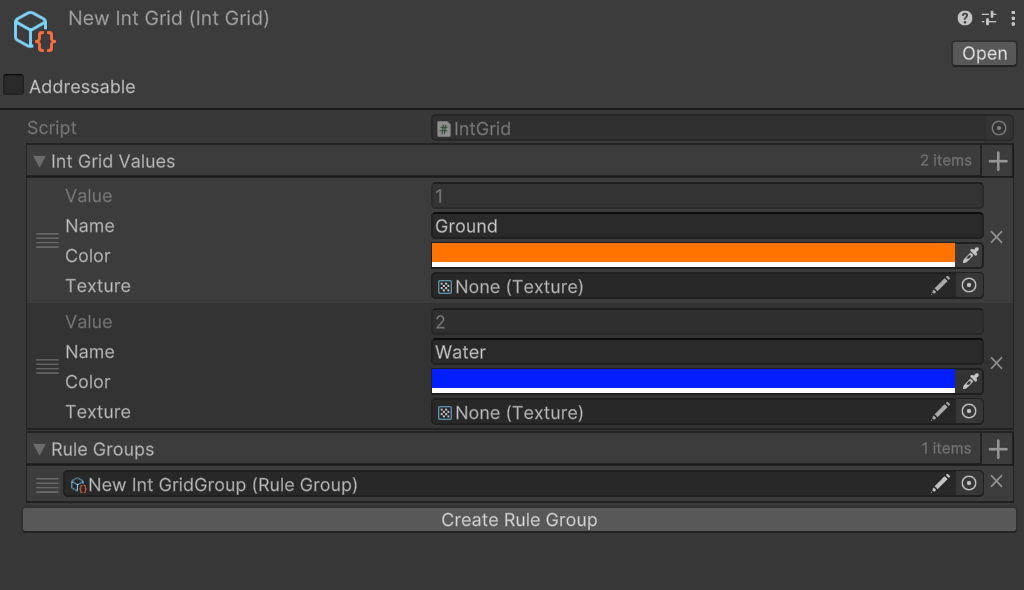
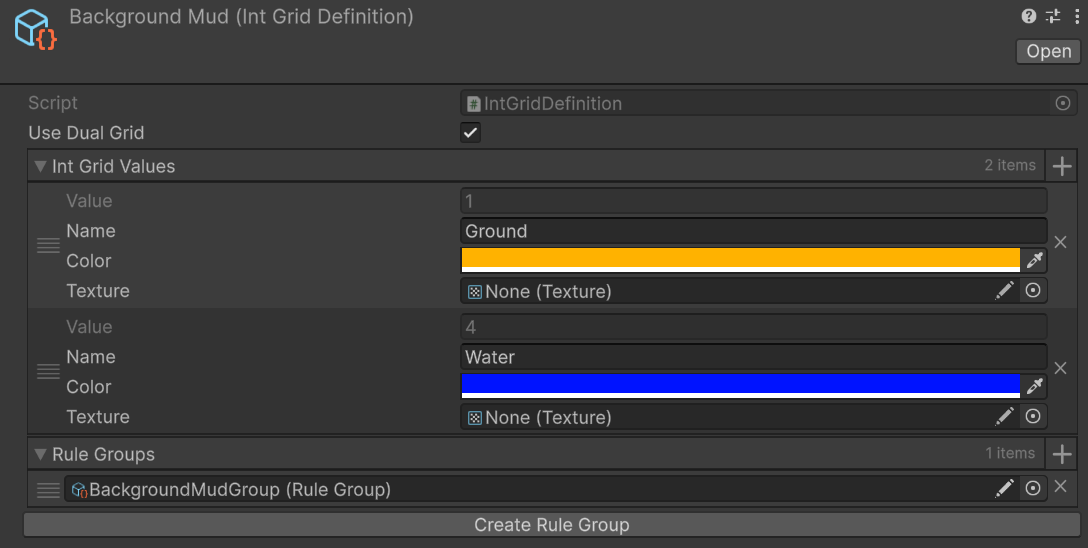
Update CHANGELOG.md and README.md

diff --git a/KrasCore.Mosaic/Systems/TilemapEntityInitializationSystem.cs b/KrasCore.Mosaic/Systems/TilemapEntityInitializationSystem.cs
@@ -14,12 +14,6 @@ namespace KrasCore.Mosaic
         private NativeHashMap<Hash128, TilemapDataSingleton.IntGridLayer> _intGridLayers;
         
         [BurstCompile]
-        public void OnCreate(ref SystemState state)
-        {
-            state.RequireForUpdate<TilemapDataSingleton>();
-        }
-        
-        [BurstCompile]
         public void OnUpdate(ref SystemState state)
         {
             state.EntityManager.CompleteDependencyBeforeRO<TilemapDataSingleton>();

diff --git a/README.md b/README.md
@@ -3,26 +3,34 @@ Mosaic is a Next Gen Runtime Unity Tilemap solution, heavily inspired by LDtk, b
 
 ![Mosaic](Documentation~/Images/Mosaic.png)
 
-| Feature       | Unity.Tilemap                                                                 | Mosaic                                                                                                                                                      |
-|---------------|-------------------------------------------------------------------------------|-------------------------------------------------------------------------------------------------------------------------------------------------------------|
-| Rule engine   | RuleTile: very shallow support, requires custom code to achieve basic results | IntGrid: inspired by LDtk, one of the most powerful and feature rich rule engines                                                                           |
-| GUI           | Poor GUI experience with RuleTile custom editor                               | Custom GUI made with [Odin Inspector](https://assetstore.unity.com/packages/tools/utilities/odin-inspector-and-serializer-89041?srsltid=AfmBOop97OyTTYiuIIGN0oQkSMLd0P3xSmw8NEuDFQQLFEFcz3blWS6p), with a separate EditorWindow to make GUI even more clear and concise. Custom rule pattern matrix controls and rendering |
-| Performance   | Main thread only, really inefficient when using complex rule patterns         | 99% 'bursted' and 'jobified'. Main thread only submits meshes to render                                                                                     | 
-| Allocations   | Huge GC spikes when using RuleTile                                            | 0 GC and Native allocations                                                                                                                               |
-| Random        | No option to set a seed                                                       | `SetGlobalSeed()` and 100% deterministic                                                                                                                    |
-| World editing | Tilemap saves changes in the editor                                           | IntGridAuthoring does not save editor data for now. However, adding such feature is trivial as all the data is stored in a `int[]`                       |
-| Grid types    | Rectangular, hexagonal and isometric                                          | Only rectangular                                                                                                                                            |
-| Object rule result  | Instantiates GameObjects, which is really expensive. A lot of GC allocations | Instantiates Entities, which is really cheap. No GC allocations |                  
-| Rendering Pipeline | Internal `SpriteRenderer` based rendering path                                | `Entities.Graphics` based rendering with every `IntGridAuthoring` being a separate entity with a mesh. Utilizing `RuntimeMaterial` to create materials at runtime with different main textures as needed |
-| 2D Rendering     | Supports both 3D and 2D rendering with SortingLayers   | Because `SpriteRenderer` rendering path is internal, Mosaic only works with 3D based rendering |
+| Feature            | Unity.Tilemap                                                                 | Mosaic                                                                                                                                                                                                                                                                                                                     |
+|--------------------|-------------------------------------------------------------------------------|----------------------------------------------------------------------------------------------------------------------------------------------------------------------------------------------------------------------------------------------------------------------------------------------------------------------------|
+| Rule engine        | RuleTile: very shallow support, requires custom code to achieve basic results | IntGrid: inspired by LDtk, one of the most powerful and feature rich rule engines                                                                                                                                                                                                                                          |
+| GUI                | Poor GUI experience with RuleTile custom editor                               | Custom GUI made with [Odin Inspector](https://assetstore.unity.com/packages/tools/utilities/odin-inspector-and-serializer-89041?srsltid=AfmBOop97OyTTYiuIIGN0oQkSMLd0P3xSmw8NEuDFQQLFEFcz3blWS6p), with a separate EditorWindow to make GUI even more clear and concise. Custom rule pattern matrix controls and rendering |
+| Performance        | Main thread only, really inefficient when using complex rule patterns         | 99% 'bursted' and 'jobified'. Main thread only submits meshes to render                                                                                                                                                                                                                                                    | 
+| Allocations        | Huge GC spikes when using RuleTile                                            | 0 GC allocations                                                                                                                                                                                                                                                                                                           |
+| Random             | No option to set a seed                                                       | `SetGlobalSeed()` and 100% deterministic                                                                                                                                                                                                                                                                                   |
+| World editing      | Tilemap saves changes in the editor                                           | `IntGridAuthoring` does not save editor data for now. However, adding such feature is trivial as all the data is stored as `IntGridValue`s, which is just a wrapper for `short`                                                                                                                                            |
+| Grid types         | Rectangular, hexagonal and isometric                                          | Only rectangular                                                                                                                                                                                                                                                                                                           |
+| Object rule result | Instantiates GameObjects, which is really expensive. A lot of GC allocations  | Instantiates Entities, which is really cheap. No GC allocations                                                                                                                                                                                                                                                            |                  
+| Rendering Pipeline | Internal `SpriteRenderer` based rendering path                                | `Entities.Graphics` based rendering with every `IntGridAuthoring` being a separate entity with a mesh. Utilizing `RuntimeMaterial` to create materials at runtime with different main textures as needed                                                                                                                   |                                                                                                                  |                                                                                                                  
+| 2D Rendering       | Supports both 3D and 2D rendering with SortingLayers                          | Because `SpriteRenderer` rendering path is internal, Mosaic only works with 3D based rendering                                                                                                                                                                                                                             |
+
+## Changelog
+[1.3.0] - 2025-07-25 is out! Full changelog can be found [here](CHANGELOG.md)
 
 ## Installation
-Add these packages in this order using git urls in a package manager:
-1. [KrasCore](https://github.com/Fire-Aalt/KrasCore): `https://github.com/Fire-Aalt/KrasCore.git`
-2. KrasCore.Mosaic: `https://github.com/Fire-Aalt/KrasCore-Mosaic.git`
+Add these packages using git urls in a package manager:
+1. KrasCore: https://github.com/Fire-Aalt/KrasCore.git
+2. KrasCore.Mosaic: https://github.com/Fire-Aalt/KrasCore-Mosaic.git
+
+Add these packages for optional support for runtime `IntGrid` debugging: 
+1. BovineLabs.Core: https://gitlab.com/tertle/com.bovinelabs.core.git
+2. BovineLabs.Anchor: https://gitlab.com/tertle/com.bovinelabs.anchor.git
+3. BovineLabs.Quill: https://github.com/tertle/com.bovinelabs.quill
 
 ## Workflow
-### Editor
+### Editor (Single Grid workflow)
 To start, we need 2 things: `IntGrid` and `RuleGroup` ScriptableObjects
 
 Create IntGrid using "Create/Mosaic/IntGrid". This is how we can configure it:
@@ -35,43 +43,52 @@ Open RuleGroup ScriptableObject and add some rules to it like this:
 *Every parameter has a tooltip*
 
 To edit the rule pattern, click on the matrix of the rule matrix preview of the rule. This window will pop up:
-![Rule1](Documentation~/Images/Rule1.png)
+![Rule](Documentation~/Images/Rule.png)
 Here you can modify rule matrix pattern and add or remove results. All the results are weighted, where more weight means more chance to be selected. You can have both sprite and entity to be rendered/spawned.
 
-Next add `GridAuthoring` component to a GameObject in a SubScene and add a `TilemapAuthoring` as a child to Grid. Configure them as needed
+Next add `GridAuthoring` component to a GameObject in a SubScene and add a `TilemapAuthoring` as a child to Grid. Configure them as needed.
+
+### Editor (Dual-Grid workflow)
+
+For Dual-Grid to work, a "Use Dual Grid" checkbox has to be ticked at the top of `IntGridDefinition`. This will change the serialized IntGriMatrix to Dual-Grid one and the authoring inspectors will also be changed for all the RuleGroups assign to that `IntGridDefinition`.
+
+![DualGrid](Documentation~/Images/DualGrid.png)
 
 ### Code
-Reference to an `IntGrid` or it's IntGridHash is required to send commands to `TilemapCommandBufferSystem`. 
+Reference to an `IntGrid`'s `IntGridHash` is required to send commands to `TilemapCommandBufferSystem`. Code is identical for both single grid and Dual-Grid configurations
 
 1. Get a reference to `TilemapCommandBufferSingleton`
 ```csharp
-var singleton = SystemAPI.GetSingleton<TilemapCommandBufferSingleton>();
+var tcb = SystemAPI.GetSingleton<TilemapCommandBufferSingleton>();
 
 // You can also set global seed here or do it later
-singleton.SetGlobalSeed(seed);
+tcb.SetGlobalSeed(seed);
 ```
 
 2. Use `SetIntGridValue()` to update a referenced `IntGrid`
 ```csharp
 // If you set 0 as IntGridValue you "remove" the position (the same as setting null value using SetTile in Unity.Tilemap)
-_tcb.SetIntGridValue(topWalls, new int2(0, 1), topWallsSolidIntGridValue);
+tcb.SetIntGridValue(topWallsHash, new int2(0, 1), topWallsSolidIntGridValue);
 ```
 
 3. Use `Clear()` to clear all IntGridValues of a specific `IntGrid` or use `ClearAll()` to clear all `IntGrid`s values
 ```csharp
-_tcb.Clear(topWalls);
-_tcb.ClearAll();
+tcb.Clear(topWalls);
+tcb.ClearAll();
 ```
 
 *Done!*
 
-## How do rules work
+## How does RuleEngine work?
 A matrix represents IntGridValues to search for with an offset from the center of every single position in the world. 
 Controls and what they do are as follows:
 1. Left click or "solid" color means that this cell must contain this exact IntGridValue
 2. Right click or "canceled" color means that this cell can be anything but not this IntGridValue
 3. Double right click removes the cell from cells to search (any IntGridValue is valid)
 4. Any Value/No Value do the same as any other IntGridValues, but apply as a yes or no filter to the cell's IntGridValue (if IntGridValue = 1, and the cell is marked No Value, then the rule will not pass)
+
+## Runtime debugging
+A separate assembly is included with debug code. This assembly is conditionally compiled out if BovineLabs.Anchor and BovineLabs.Quill are not found in the project. Having BovineLabs.Anchor will add "Mosaic" toolbar to Anchor with a list of registered `IntGrid`s. Having BovineLabs.Quill will add runtime gizmo for selected `IntGrid`s in that list.
 
 ## Contribution
 If you are interested in using this solution, I will be greatly appreciated. Write any bugs, feature requests or enhancements to Issues tab
@@ -81,5 +98,3 @@ If you are interested in using this solution, I will be greatly appreciated. Wri
 [LDtk](https://ldtk.io/) for the idea and GUI
 
 [NZCore](https://github.com/enzi/NZCore) for `ParallelList`
-
-[BovineLabs](https://gitlab.com/tertle/com.bovinelabs.core/-/tree/master) for `GetSingleton<>()`

diff --git a/CHANGELOG.md b/CHANGELOG.md
@@ -1,4 +1,27 @@
 # Changelog
+## [1.3.0] - 2025-07-25
+
+### Breaking Changes
+* `IntGridMatrix` serialization layout has been changed to support Dual-Grid configuration. All `IntGridMatrix` in `RuleGroup`s have to be reconfigured
+
+### Added
+* Dual-Grid system support! For more info check jess::codes video: https://www.youtube.com/watch?v=jEWFSv3ivTg
+* Optional Debug assembly with BovineLabs.Core, BobineLabs.Anchor and BovineLabs.Quill integration to visually inspect IntGrid values
+* Custom editor drawers for IntGridMatrix and IntGridValueSelector
+
+### Changed
+* Overall code cleanup and simplification with better separation
+* 2-3x rule matching performance improvement. Instead of 7 jobs per `IntGrid` + 1 const, now `TilemapRuleEngineSystem` sends only 3 jobs const
+* Reduced number of jobs scheduled by `TilemapMeshDataSystem`
+* Moved `TilemapRuleEngineSystem` and `TilemapMeshDataSystem` to the end of `PresentationSystemGroup` to not waste jobs space when gameplay logic is performed
+* Removed singleton sync points in both `TilemapRuleEngineSystem` and `TilemapMeshDataSystem`
+* Mosaic meshes are now updated on the next frame, just like entities instantiated/destroyed by `TilemapRuleEngineSystem`
+* IntGrid value is now a struct `IntGridValue`, which is a wrapper for `short` instead of an `int`. This change would lead to 50% less memory required to store serialized IntGrid values
+* Improve `TilemapEntityCleanupSystem` performance by using `EntityManager` batch API
+
+### Fixed
+* Setting `IntGrid` value to 0 will now remove the entry from the hash map, instead of just setting to 0
+
 ## [1.2.0] - 2025-06-22
 
 ### Added
